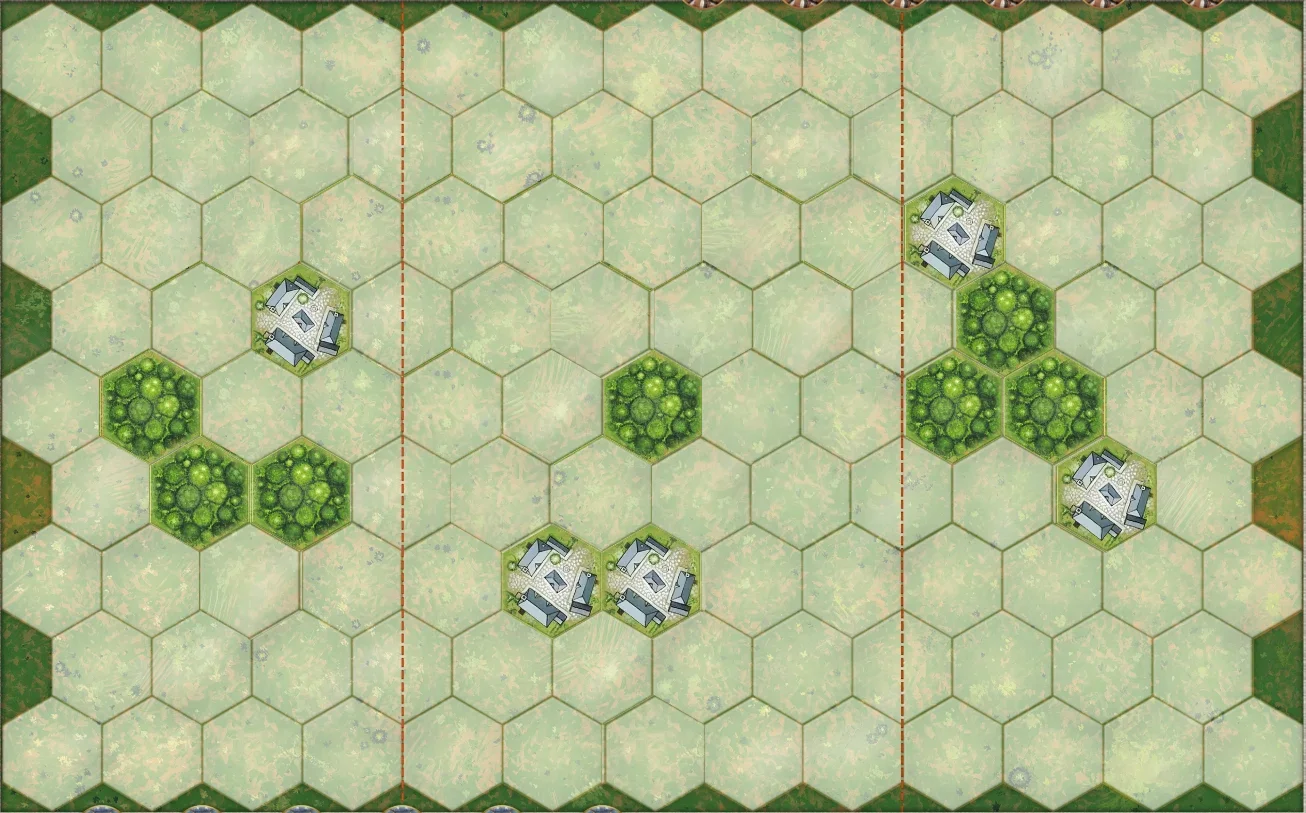
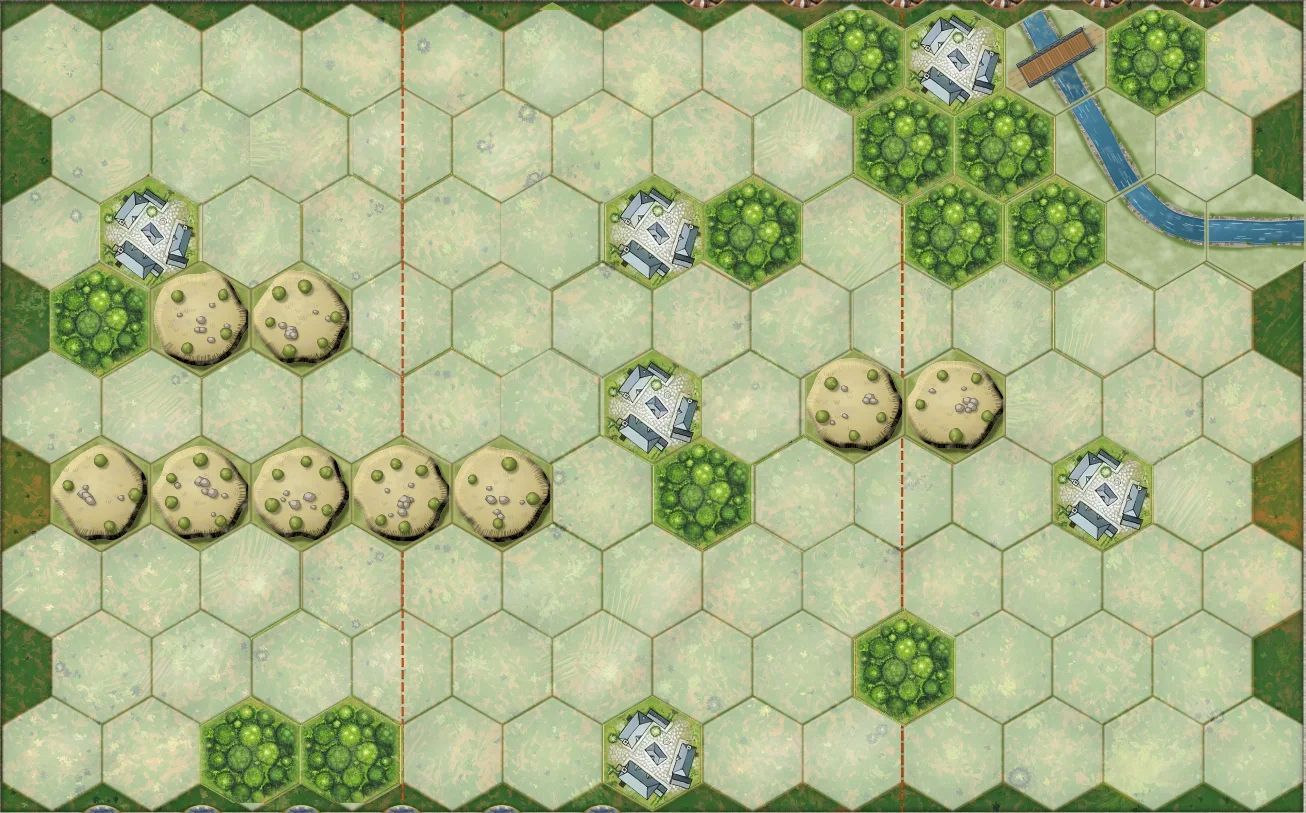
feat: official Arracourt setup; sandbags face the enemy; Cortina de Fuego for both sides
Arracourt follows Memoir '44 scenario 23: the map (towns, forests, hills,
the Marne-Rhine canal and its bridge), the units, the sandbagged
artillery and the hands (Axis 4, first; Allies 6). Air rules: one sortie
to the Axis, none for the Allies (the other sortie is only shuffled in).

Cortina de Fuego goes to both sides unless the scenario, or the player's
ruling, says a side has no heavy guns: only Pegasus Bridge drops it.

Sandbags on the map now curve round the top of the token, toward the
enemy.

diff --git a/src/data/scenarios.ts b/src/data/scenarios.ts
@@ -17,8 +17,8 @@ export const scenarios: Scenario[] = [
     // Official scenario 7045 by jdrommel (Days of Wonder archives, 12 August 1944): Leclerc's
     // French 2e DB attacks the Germans dug into the Écouves forest. The map, units, sandbags,
     // elite badges and hands are the official ones (in the .m44 file a column is twice ours).
-    // Écouché, the Allies' temporary medal objective, and the medals stay on the table; big
-    // guns, air and the reinforcement table are ours
+    // Écouché, the Allies' temporary medal objective, and the medals stay on the table; air
+    // and the reinforcement table are ours
     id: 'foret-decouves',
     name: "Forêt d'Écouves",
     description:
@@ -27,8 +27,7 @@ export const scenarios: Scenario[] = [
     image: foretDEcouvesImage,
     initialHandSize: { allies: 6, axis: 5 },
     attacker: 'Allies',
-    // August 1944: the French 2e DB attacks with American guns and Allied fighter-bombers overhead
-    bigGuns: ['Allies'],
+    // August 1944: the French 2e DB attacks with Allied fighter-bombers overhead
     airPower: { allies: 1, axis: 0 },
     reinforcements: {
       [DieFace.INFANTRY]: UnitType.INFANTRY,
@@ -81,17 +80,20 @@ export const scenarios: Scenario[] = [
     },
   },
   {
-    // Made up for the app, loosely after the tank battle of Arracourt (September 1944):
-    // German armour attacks across open farmland towards the American-held village
+    // Memoir '44 scenario 23 (19 September 1944): the 111th Panzer Brigade drives on Arracourt,
+    // where the US 4th Armored Division waits in the fog. The map, units, sandbags and hands are
+    // the official ones; the medals stay on the table, and the reinforcement table is ours
     id: 'arracourt',
     name: 'Arracourt',
-    description: 'Campo abierto entre pueblos y bosquecillos: los blindados alemanes atacan el pueblo.',
+    description:
+      'Septiembre de 1944: entre la niebla, las brigadas Panzer atacan Lezey y Arracourt, ' +
+      'defendidos por los blindados de la 4.ª División Acorazada estadounidense.',
     image: arracourtImage,
-    initialHandSize: { allies: 4, axis: 5 },
+    initialHandSize: { allies: 6, axis: 4 },
     attacker: 'Axis',
-    // The American artillery and, once the fog lifted, the P-47s broke the German attacks
-    bigGuns: ['Allies'],
-    airPower: { allies: 1, axis: 0 },
+    // Air rules: one air sortie to the Axis; the other is shuffled into the deck, which gives
+    // the Allies none
+    airPower: { allies: 0, axis: 1 },
     reinforcements: {
       [DieFace.INFANTRY]: UnitType.INFANTRY,
       [DieFace.TANK]: UnitType.TANK,
@@ -100,19 +102,23 @@ export const scenarios: Scenario[] = [
       [DieFace.FLAG]: null,
     },
     tiles: arracourtTiles as Tiles,
+    // The artillery dug in west of Arracourt
+    sandbags: [{ row: 7, col: 4 }],
     units: {
       allies: {
-        infantry: [{ row: 6, col: 5 }, { row: 6, col: 6 }, { row: 7, col: 1 }, { row: 7, col: 10 }],
-        tank: [{ row: 7, col: 2 }, { row: 7, col: 5 }, { row: 7, col: 7 }, { row: 6, col: 9 }],
-        artillery: [{ row: 8, col: 5 }, { row: 8, col: 7 }],
+        infantry: [{ row: 2, col: 6 }, { row: 6, col: 4 }, { row: 6, col: 9 }, { row: 7, col: 2 }, { row: 8, col: 6 }],
+        tank: [
+          { row: 3, col: 1 }, { row: 3, col: 2 }, { row: 6, col: 2 },
+          { row: 6, col: 3 }, { row: 8, col: 8 }, { row: 8, col: 9 },
+        ],
+        artillery: [{ row: 7, col: 4 }, { row: 7, col: 7 }, { row: 7, col: 9 }],
       },
       axis: {
-        infantry: [{ row: 0, col: 3 }, { row: 0, col: 6 }, { row: 0, col: 8 }, { row: 0, col: 10 }],
+        infantry: [{ row: 0, col: 3 }, { row: 0, col: 4 }, { row: 0, col: 9 }, { row: 0, col: 11 }, { row: 1, col: 1 }, { row: 1, col: 3 }],
         tank: [
-          { row: 1, col: 2 }, { row: 1, col: 4 }, { row: 1, col: 5 },
-          { row: 1, col: 6 }, { row: 1, col: 7 }, { row: 1, col: 9 },
+          { row: 0, col: 0 }, { row: 0, col: 1 }, { row: 0, col: 2 }, { row: 0, col: 5 },
+          { row: 0, col: 6 }, { row: 0, col: 12 }, { row: 1, col: 0 }, { row: 1, col: 11 },
         ],
-        artillery: [{ row: 0, col: 5 }],
       },
     },
   },
@@ -125,9 +131,7 @@ export const scenarios: Scenario[] = [
     image: sainteMereEgliseImage,
     initialHandSize: { allies: 6, axis: 5 },
     attacker: 'Allies',
-    // The paratroopers landed without heavy guns, while German artillery shelled the town;
-    // the scenario says nothing about air superiority, so both sides keep their air cards
-    bigGuns: ['Axis'],
+    // The scenario says nothing about air superiority, so both sides keep their air cards
     paradrop: { faction: 'Allies', unitType: UnitType.INFANTRY, units: 4 },
     reinforcements: {
       [DieFace.INFANTRY]: UnitType.INFANTRY,
@@ -167,7 +171,7 @@ export const scenarios: Scenario[] = [
     initialHandSize: { allies: 6, axis: 2 },
     extraDraws: { faction: 'Axis', turns: 2 },
     attacker: 'Allies',
-    // A night glider raid on two bridges: no heavy guns or aircraft on either side
+    // A night glider raid on two bridges: no heavy guns (the player's ruling) or aircraft on either side
     bigGuns: [],
     airPower: { allies: 0, axis: 0 },
     reinforcements: {

diff --git a/src/data/combatCards.test.ts b/src/data/combatCards.test.ts
@@ -53,9 +53,10 @@ describe("combat card data", () => {
     ["Mecánico", "Blindados adelante", "Observador", "Reposicionamiento", "Sin combustible", "Escasez de proyectiles"]
       .forEach((name) => expect(names(pegasus, "Allies")).not.toContain(name));
 
-    const arracourt = scenario("arracourt"); // both sides have tanks and artillery
+    const arracourt = scenario("arracourt"); // the Allies have tanks and artillery, the Axis tanks
     ["Mecánico", "Blindados adelante", "Observador", "Reposicionamiento", "Sin combustible", "Escasez de proyectiles"]
-      .forEach((name) => expect(copies(arracourt, "Axis", name)).toBe(1));
+      .forEach((name) => expect(copies(arracourt, "Allies", name)).toBe(1));
+    expect(names(arracourt, "Axis")).not.toContain("Observador");
 
     const ecouves = scenario("foret-decouves"); // tanks but no artillery on either side
     expect(names(ecouves, "Allies")).toContain("Mecánico");
@@ -75,20 +76,25 @@ describe("combat card data", () => {
     expect(copies({ ...ecouves, tiles: { ...ecouves.tiles, town } }, "Axis", "Rattenkrieg")).toBe(1);
   });
 
-  it("gives Cortina de Fuego to the sides with big guns, both when the scenario doesn't say", () => {
-    expect(names(scenario("arracourt"), "Allies")).toContain("Cortina de Fuego");
-    expect(names(scenario("arracourt"), "Axis")).not.toContain("Cortina de Fuego");
+  it("gives Cortina de Fuego to both sides unless the scenario says a side has no big guns", () => {
+    scenarios.filter((s) => s.id !== "pegasus-bridge").forEach((s) => {
+      expect(names(s, "Allies")).toContain("Cortina de Fuego");
+      expect(names(s, "Axis")).toContain("Cortina de Fuego");
+    });
     expect(names(scenario("pegasus-bridge"), "Allies")).not.toContain("Cortina de Fuego");
-    const unsaid = { ...scenario("pegasus-bridge"), bigGuns: undefined };
-    expect(names(unsaid, "Allies")).toContain("Cortina de Fuego");
-    expect(names(unsaid, "Axis")).toContain("Cortina de Fuego");
+    expect(names(scenario("pegasus-bridge"), "Axis")).not.toContain("Cortina de Fuego");
+    const alliesOnly = { ...scenario("arracourt"), bigGuns: ["Allies" as const] };
+    expect(names(alliesOnly, "Allies")).toContain("Cortina de Fuego");
+    expect(names(alliesOnly, "Axis")).not.toContain("Cortina de Fuego");
+    expect(names({ ...scenario("arracourt"), bigGuns: [] }, "Allies")).not.toContain("Cortina de Fuego");
   });
 
   it("deals the air cards by air power: 1 each by default, none against air superiority, more with more sorties", () => {
     const sme = scenario("sainte-mere-eglise");
     expect(copies(sme, "Axis", "Poder aéreo")).toBe(1);
     expect(copies(sme, "Axis", "Bombardeo aéreo")).toBe(1);
-    expect(names(scenario("arracourt"), "Axis")).not.toContain("Poder aéreo");
+    expect(names(scenario("foret-decouves"), "Axis")).not.toContain("Poder aéreo");
+    expect(copies(scenario("arracourt"), "Axis", "Bombardeo aéreo")).toBe(1);
     expect(names(scenario("pegasus-bridge"), "Allies")).not.toContain("Poder aéreo");
     const sorties = { ...sme, airPower: { allies: 2, axis: 0 } };
     expect(copies(sorties, "Allies", "Poder aéreo")).toBe(2);
@@ -105,8 +111,7 @@ describe("combat card data", () => {
     expect(reason("Fragor del combate")).toBe("attacker");
     expect(entries.find(({ card }) => card.name === "Sin tregua")?.copies).toBe(2);
     expect(reason("Médico")).toBe("shared");
-    expect(reason("Cortina de Fuego")).toBeUndefined();
-    expect(combatDeckEntries(arracourt, "Allies").find(({ card }) => card.name === "Cortina de Fuego")?.reason).toBe("bigGuns");
-    expect(combatDeckEntries(arracourt, "Allies").find(({ card }) => card.name === "Poder aéreo")?.reason).toBe("air");
+    expect(reason("Cortina de Fuego")).toBe("bigGuns");
+    expect(reason("Poder aéreo")).toBe("air");
   });
 });

diff --git a/src/components/SandbagsIcon.tsx b/src/components/SandbagsIcon.tsx
@@ -21,7 +21,7 @@ function SandbagsIcon({ size = 36 }: { size?: number }) {
 
 /**
  * Sandbags on a hex of the SVG board: a low wall of bags curving round the
- * front of the unit token (or of the empty hex, for the enemy's), drawn over
+ * top of the unit token, facing the enemy (each side sees it at the top of its map) (or of the empty hex, for the enemy's), drawn over
  * the token so it shows. Sized for a 50-unit hex and scaled to `hexSize`.
  */
 export function SandbagsArt({ x, y, hexSize }: { x: number; y: number; hexSize: number }) {
@@ -30,8 +30,8 @@ export function SandbagsArt({ x, y, hexSize }: { x: number; y: number; hexSize: 
   return (
     <g className="sandbags" transform={`translate(${x} ${y}) scale(${hexSize / 50})`} pointerEvents="none" data-testid="sandbags">
       {Array.from({ length: bags }, (_, i) => {
-        // From lower right to lower left, round the bottom of the token
-        const angle = 25 + (130 * i) / (bags - 1);
+        // From upper left to upper right, round the top of the token
+        const angle = 205 + (130 * i) / (bags - 1);
         const rad = (angle * Math.PI) / 180;
         const cx = radius * Math.cos(rad);
         const cy = radius * Math.sin(rad);

diff --git a/src/types/scenario.ts b/src/types/scenario.ts
@@ -54,13 +54,13 @@ export interface Scenario {
   /** One side draws 2 command cards instead of 1 after each of its first `turns` turns (Pegasus Bridge: the Germans were surprised) */
   extraDraws?: { faction: Faction; turns: number };
   /**
-   * Sides that historically had heavy guns to bombard with: only they get Cortina de Fuego.
-   * Both sides when omitted
+   * Sides that get Cortina de Fuego. Omitted (both sides) unless the scenario, or the player's
+   * own ruling, says a side has no heavy guns
    */
   bigGuns?: Faction[];
   /**
-   * Copies of each air card (Poder aéreo, Bombardeo aéreo) per side: 0 for a side whose enemy
-   * has air superiority, more for a side with several air sorties. 1 each when omitted
+   * Copies of each air card (Poder aéreo, Bombardeo aéreo) per side: one per air sortie the
+   * scenario gives the side, 0 for a side whose enemy has air superiority. 1 each when omitted
    */
   airPower?: { allies: number; axis: number };
 }

diff --git a/src/data/scenarios.test.ts b/src/data/scenarios.test.ts
@@ -76,6 +76,22 @@ describe("Forêt d'Écouves", () => {
   });
 });
 
+describe("Arracourt", () => {
+  const arracourt = scenarios.find((s) => s.id === "arracourt")!;
+  const count = (group: UnitGroup) => Object.fromEntries(Object.entries(group).map(([type, at]) => [type, at!.length]));
+
+  it("has the official units, the Axis first with 4 cards and the Allies with 6", () => {
+    expect(count(arracourt.units.allies)).toEqual({ infantry: 5, tank: 6, artillery: 3 });
+    expect(count(arracourt.units.axis)).toEqual({ infantry: 6, tank: 8 });
+    expect(arracourt.initialHandSize).toEqual({ allies: 6, axis: 4 });
+    expect(arracourt.attacker).toBe("Axis");
+  });
+
+  it("has the official terrain", () => {
+    expect(count(arracourt.tiles as UnitGroup)).toEqual({ town: 6, forest: 12, hill: 9, river: 3, bridge: 1 });
+  });
+});
+
 describe("scenarios", () => {
   it("have distinct ids", () => {
     const ids = scenarios.map((s) => s.id);

diff --git a/src/components/mainComponents/ScenarioDetails.test.tsx b/src/components/mainComponents/ScenarioDetails.test.tsx
@@ -25,9 +25,9 @@ describe("ScenarioDetails", () => {
     render(<ScenarioDetails scenario={arracourt} faction={null} onPickFaction={() => {}} />);
     const size = combatDeckFor(arracourt, "Allies").length;
 
-    expect(screen.getByRole("button", { name: /de Eje$/ })).toBeInTheDocument();
+    expect(screen.getByRole("button", { name: /de Eje, con artillería pesada y aviación$/ })).toBeInTheDocument();
     fireEvent.click(
-      screen.getByRole("button", { name: `Ver las ${size} cartas de combate de Aliados, con artillería pesada y aviación` })
+      screen.getByRole("button", { name: `Ver las ${size} cartas de combate de Aliados, con artillería pesada` })
     );
 
     const dialog = within(await screen.findByRole("dialog"));
